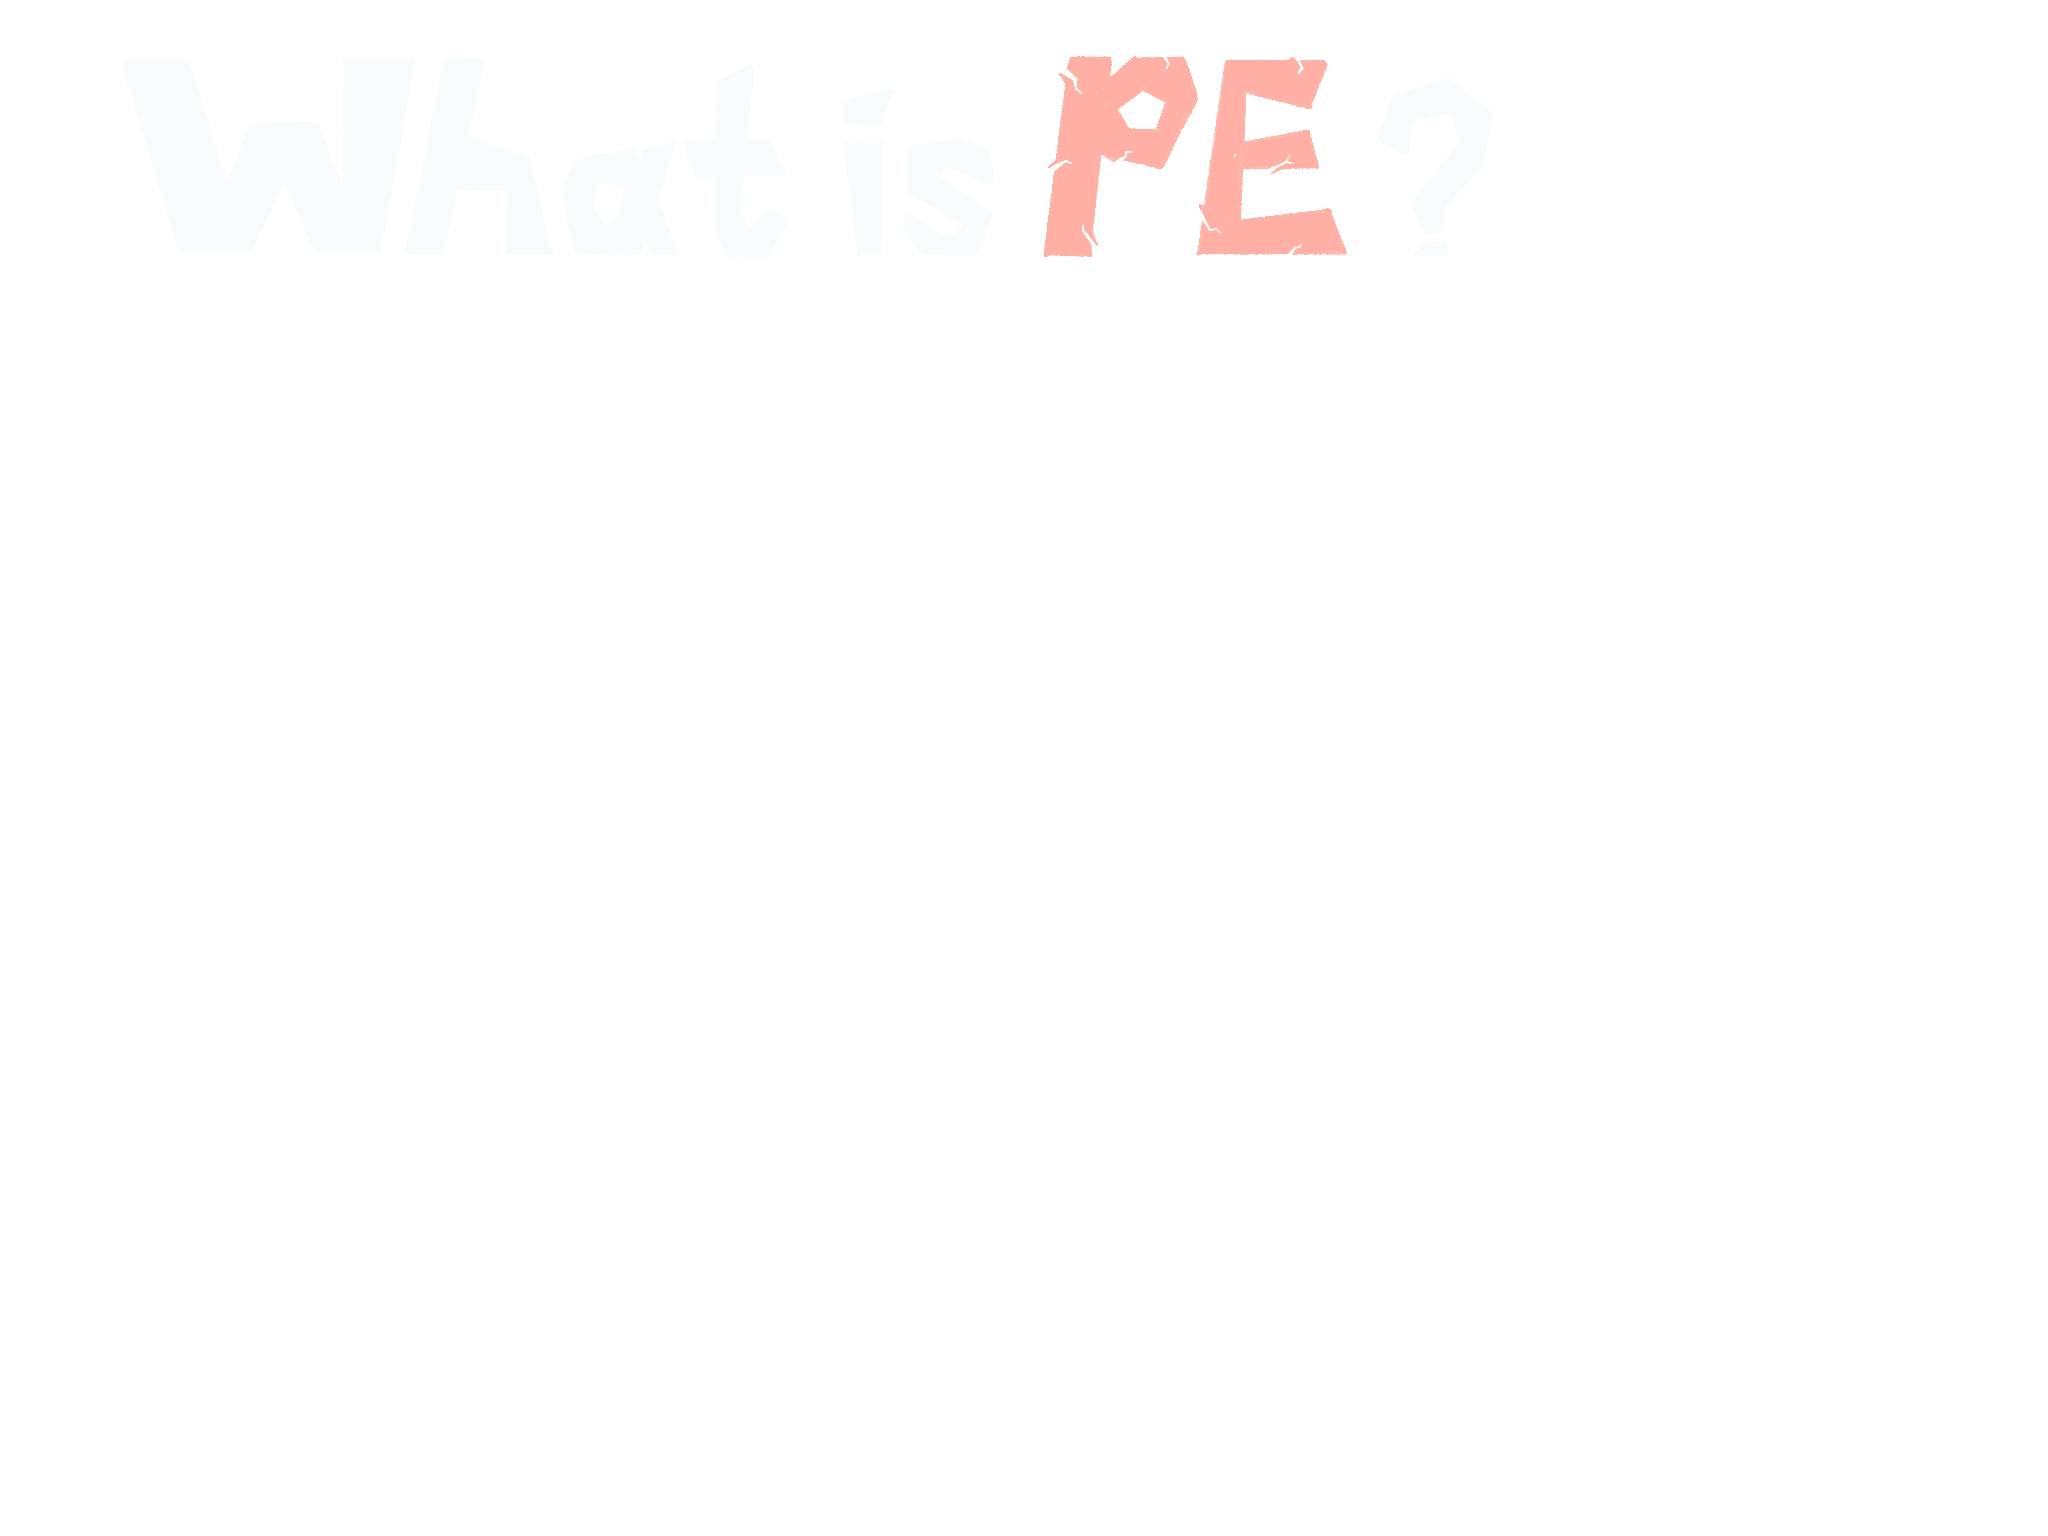
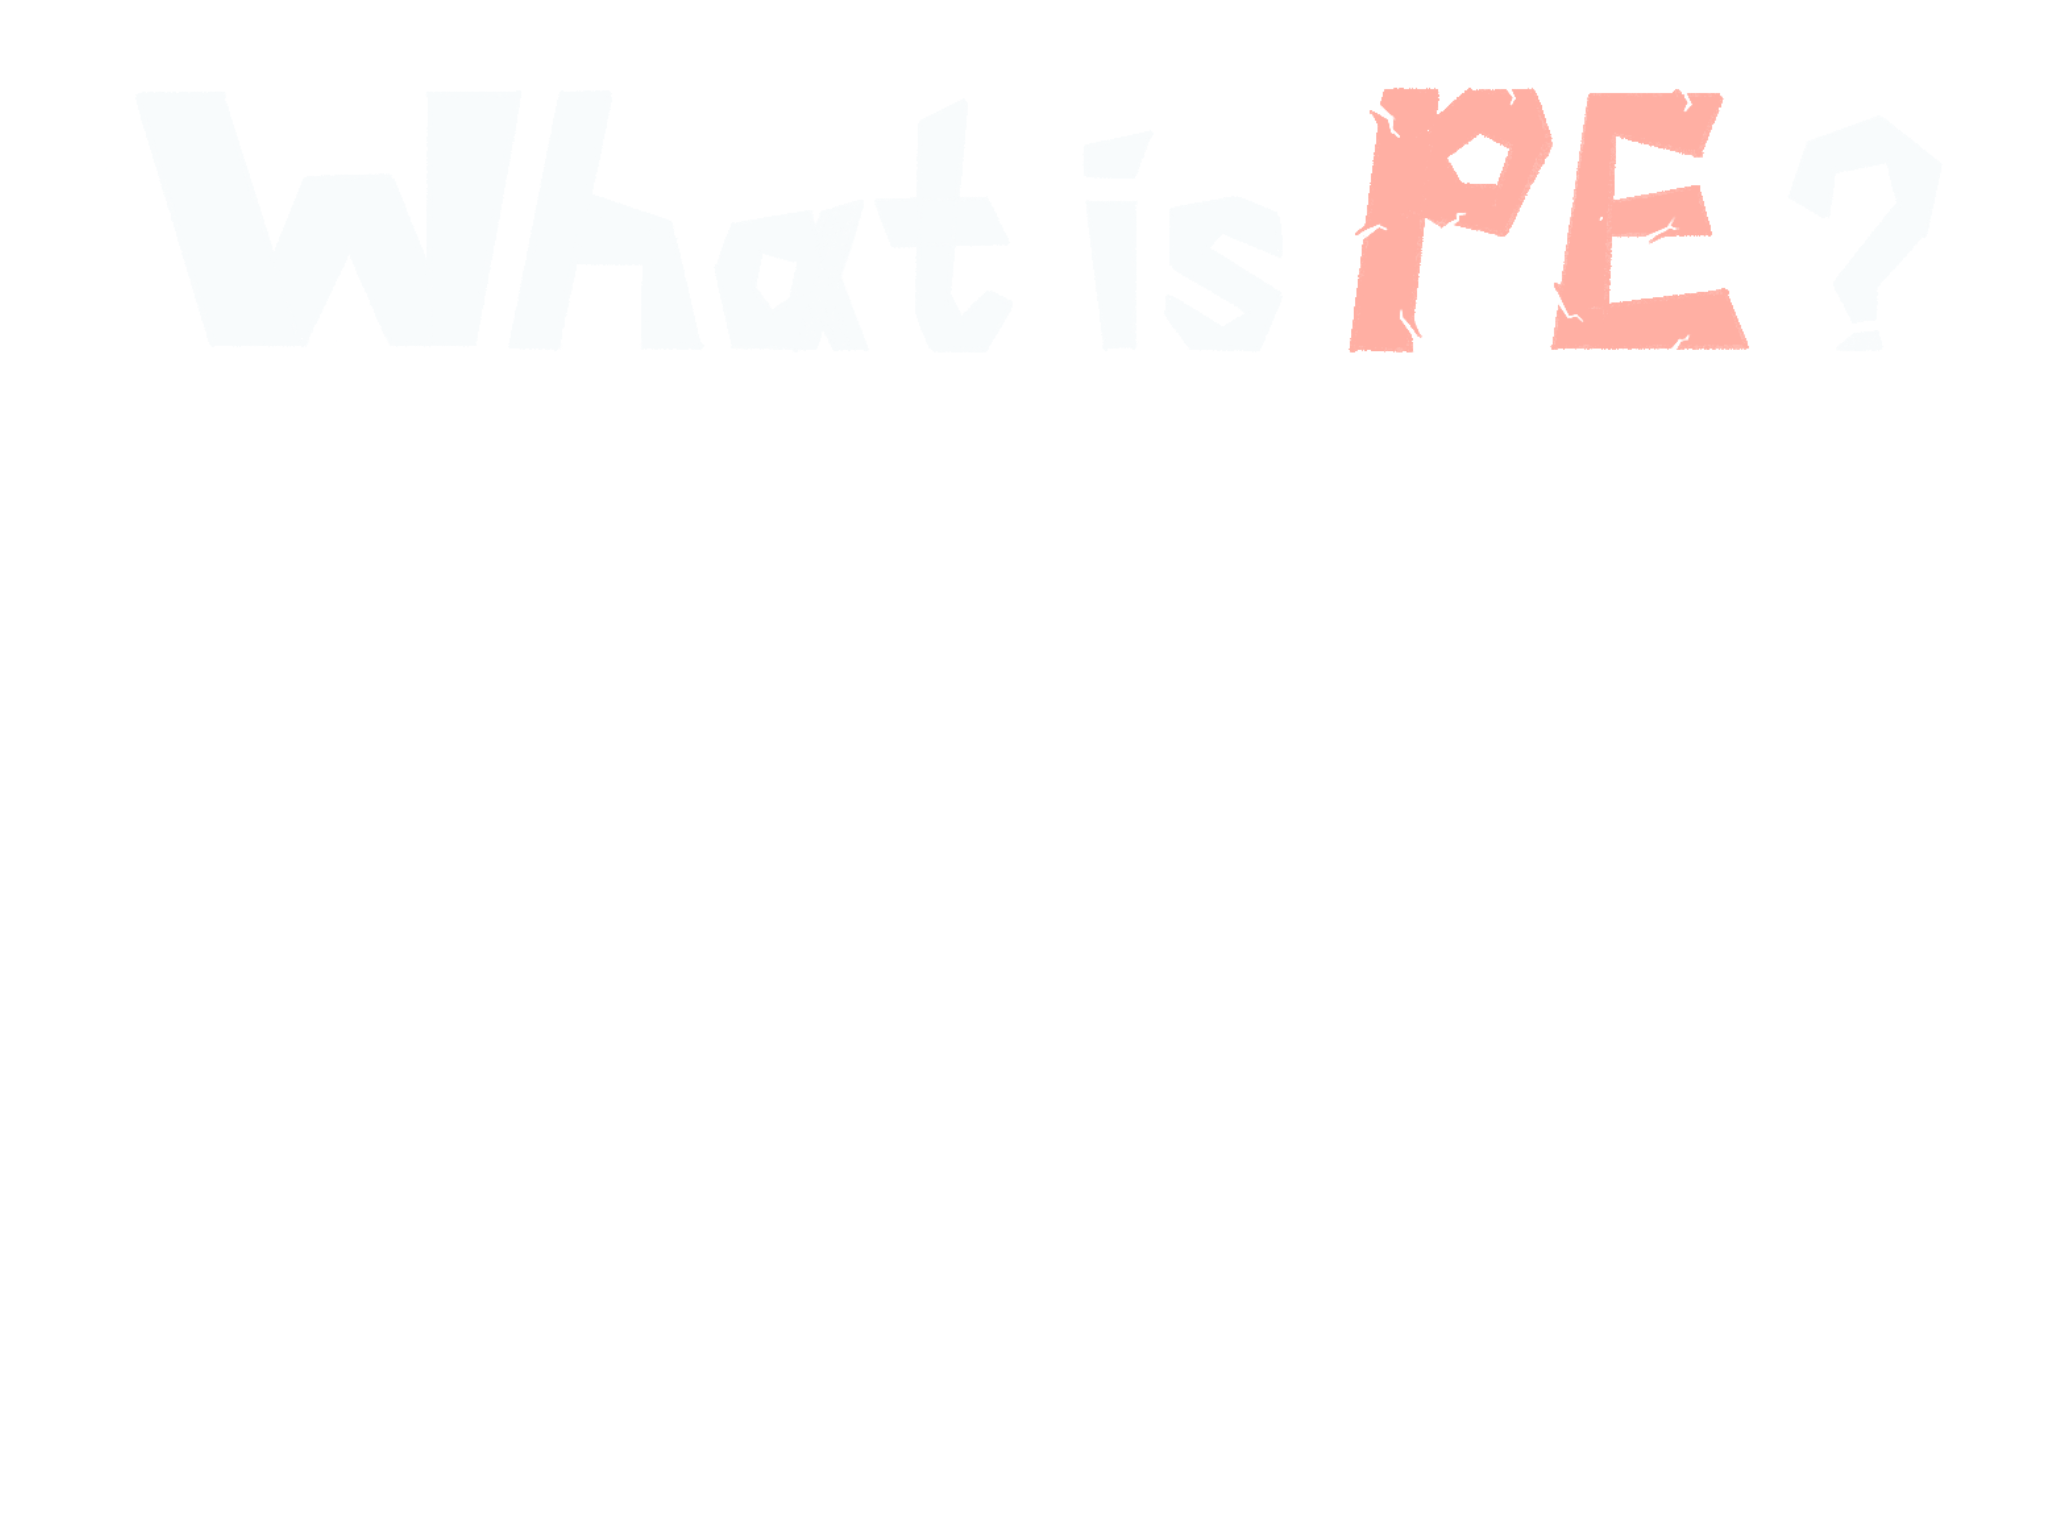
10/11

Changed region(s): [[0.5, 0.0312, 0.875, 0.25]]

diff --git a/src/views/HomeView.vue b/src/views/HomeView.vue
@@ -27,7 +27,7 @@
         <p class="simple-text wide-text">Polyethylene plastic (PE) can be seen everywhere in our lives, and is widely used in food plastic bags, agricultural greenhouses, pipes, wires, etc. Polyethylene polymer molecules are connected by very long C–C chains organized in a crystalline, dense structure. Therefore, polyethylene is too stable to degrade under normal circumstances.</p>
         <p class="simple-text wide-text">The crucial first step of PE biodegradation is the oxidation of PE polymer. This causes the formation of carbonyl groups. Then, long hydrocarbon chains are scissored with the production of smaller molecules,  which can then be metabolized by microorganisms.</p>
       </div>
-      <img src="@/assets/icon-1.png" class="icon-1"/>
+      <img src="https://static.igem.wiki/teams/4627/wiki/mei.png" class="icon-1"/>
       <div class="text-box-2">
         <strong
           >Worldwide Plastic Waste <strong class="red">200,000,000t</strong> per
@@ -38,7 +38,7 @@
       <div class="echarts-box">
         <v-chart class="chart" :option="option" />
       </div>
-      <img src="@/assets/muchAnimals.png" class="much-animals"/>
+      <img src="https://static.igem.wiki/teams/4627/wiki/pollution.png" class="much-animals"/>
       <p class="simple-text short-text text-1">High production, low recycling rates and recalcitrance have made PE plastic pollution a global environmental problem.</p>
     </div>
     <div class="main-box box-2">
@@ -46,7 +46,7 @@
         <img src="@/assets/PE_pollution.png" class="PE-pollution"/>
       </div>
       <div class="liucheng-box">
-        <img src="@/assets/liucheng.png" class="liucheng"/>
+        <img src="https://static.igem.wiki/teams/4627/wiki/bailiucheng.png" class="liucheng"/>
         <p class="desc-text text-3">Plastic recycling</p>
         <p class="desc-text text-4">Plastic classification</p>
         <p class="desc-text text-5">Physical degradation of PE</p>
@@ -67,32 +67,18 @@
       <p class="simple-text text-9 wide-text">
         When temperature rises, macromolecular chains inside PE are fully stretched, making it easier for O2 and PEase to entry and oxidize PE.                                                     However, at present, thermostability and catalytic efficiency of wild type PEase is low.
       </p>
-      <img src="@/assets/carbon-struct.png" class="carbon-struct"/>
-      <img src="@/assets/four-icons.png" class="four-icons"/>
+      <img src="https://static.igem.wiki/teams/4627/wiki/structure.png" class="carbon-struct"/>
+      <img src="https://static.igem.wiki/teams/4627/wiki/img-4887.png" class="four-icons"/>
     </div>
     <div class="main-box box-4">
-      <p>However, at present, thermostability and catalytic efficiency of wild type PEase is low.</p>
-      <p>Therefore, we hope to improve the thermostability of PEase by directed evolution to increase its possibility to work at higher temperstures. This project may lay the foundation for achieving joint action of various plastic degrading enzymes in the future.</p>
+      <p class="simple-text text-11">However, at present, thermostability and catalytic efficiency of wild type PEase is low.</p>
+      <p class="simple-text text-12">Therefore, we hope to improve the thermostability of PEase by directed evolution to increase its possibility to work at higher temperstures. This project may lay the foundation for achieving joint action of various plastic degrading enzymes in the future.</p>
       <div class="video-box">
-        <p>See our promtion video</p>
+        <p class="simple-text">See our promtion video</p>
         <video></video>
       </div>
-      <div class="more-info-box">
-        <div class="left-box">
-          <p>Contact us</p>
-          <div>
-            <img src=""/>
-            <p></p>
-          </div>
-          <div>
-            <img src=""/>
-            <p></p>
-          </div>
-          <div>
-            <img src=""/>
-            <img src=""/>
-          </div>
-        </div>
+      <div class="six-image-box">
+        <img v-for="item in six_image" :key="item" :src="item" class="six-image"/>
       </div>
     </div>
   </div>
@@ -116,7 +102,9 @@ use([
   TooltipComponent,
   LegendComponent
 ]);
-
+const six_image = [
+  
+]
 const option = {
   title: {
     text: 'plastic waste',
@@ -152,11 +140,16 @@ const option = {
 </script>
 
 <style scoped>
+.text-11, .text-12{
+  margin:5vh;
+}
 .PE-pollution{
   height:55vh;
 }
 .what-is-PE{
   height:50vh;
+  position:relative;
+  top:30vh;
 }
 .four-icons{
   position: absolute;
@@ -180,16 +173,20 @@ const option = {
   position: relative;
 }
 .box-1 {
-  background-image: url("../assets/background-1.png");
+  background-image: url("https://static.igem.wiki/teams/4627/wiki/bground1.png");
 }
 .box-2 {
-  background-image: url("../assets/background-2.png");
+  background-image: url("https://static.igem.wiki/teams/4627/wiki/bground2.png");
 }
 .box-3 {
-  background-image: url("../assets/background-3.png");
+  background-image: url("https://static.igem.wiki/teams/4627/wiki/middle.png");
+  height:100vh;
 }
 .box-4 {
-  background-image: url("../assets/background-4.png");
+  background-image: url("https://static.igem.wiki/teams/4627/wiki/bottom.png");
+  display:flex;
+  flex-direction: column;
+  align-items: center;
 }
 .wide-text {
   max-width: 45vw;

diff --git a/src/views/ContributionView.vue b/src/views/ContributionView.vue
@@ -1,3 +1,98 @@
 <template>
-    <div></div>
-</template>
+    <div class="main">
+        <img src="@/assets/other-background.png" class="other-background"/>
+      <SideBar heading="Overview" :child_heading="['Overview']"></SideBar>
+      <div class="main-content">
+        <TextWithImage
+        mainTitle="OVERVIEW"
+        :textContent="textContent1">
+        </TextWithImage>
+        <TextWithImage
+        mainTitle="PARTS"
+        :textContent="textContent2">
+        </TextWithImage>
+        <TextWithImage
+        mainTitle="DRY LAB"
+        :textContent="textContent3">
+        </TextWithImage>
+        <TextWithImage
+        subTitle="1. Hydrophobic interaction[1]:"
+        :textContent="textContent4">
+        </TextWithImage>
+        <TextWithImage
+        subTitle="2. Hydrogen bond:"
+        :textContent="textContent5">
+        </TextWithImage>
+        <TextWithImage
+        subTitle="3. Lonic bond (salt bridge)[2] :"
+        :textContent="textContent6">
+        </TextWithImage>
+        <TextWithImage
+        subTitle="4. π-π interaction:"
+        :textContent="textContent7">
+        </TextWithImage>
+        <TextWithImage
+        subTitle="5. Disulfide bond:"
+        :textContent="textContent8">
+        </TextWithImage>
+      </div>
+    </div>
+  </template>
+  
+  <script setup>
+  import TextWithImage from "@/components/text-with-image.vue"
+  import SideBar from "@/components/side-bar.vue"
+  const textContent1 = [
+    "As a continuous and inherited competition, each team will actively provide modeling skills, experimental specifications, parts, etc. that may be useful in the future. We hope to share the experience and achievements we have gained during the past year with all of the teams, so as to provide convenience for iGEMers in the future and make the iGEM community more colorful.Our contribution section will be divided into Parts, Dry lab, Wet lab and HP four parts as following."
+  ]
+  const textContent2 = [
+    "PEase is the only enzyme found that can degrade PE. We noted that the PE enzyme has not been studied in previous projects. Our basic parts is PEase's first appearance on the iGEM stage. For the first time, we have rationally designed PEase to improve its thermostability. We used molecular cloning to construct mutant plasmid and obtained 64 composite parts. Among them, the thermostability of many mutants was improved. There are 5 proteins with Tm changes above 4℃(higher than 12% compared with wild-type Ceres).",
+    "We hope that this work will trigger more thinking and design of iGEMRers for PE biodegradation in the future and facilitate their experiments."
+  ]
+  const textContent3 = [
+    "In the process of project design, we read a lot of literature. Combined with the existing foundation of the laboratory, we summarized several methods to improve enzyme thermostability, which could be helpful if other team or researchers want to optimize enzyme thermostability. "
+  ]
+  const textContent4 = [
+    "Hydrophobic interaction mainly affects the conformational entropy of protein. And it is the most important factor in the formation and stability of protein tertiary structure."
+  ]
+  const textContent5 = [
+    "Hydrogen bond is a kind of non-covalent bond, which formed when the distance between the hydrogen donor and the hydrogen acceptor does not exceed 3Å and the Angle between the hydrogen donor and the hydrogen acceptor is less than 90°."
+  ]
+  const textContent6 = [
+    "A salt bridge is inferred to form if a pair of opposite-charged residues (Asp or Glu versus Arg, Lys, or His) meet the following criteria: ",
+    "(i) the centroids of the side chain charged groups in the opposite-charged residues are 4.0Å apart from each other;",
+    "(ii) At least one pair of Asp or Glu side chain antelope oxygen atoms and Arg, Lys or His side chain nitrogen atoms within a 4.0Å distance."
+  ]
+  const textContent7 = [
+    "The interaction between aromatic rings refers to the interaction between two aromatic amino acids (Trp, Tyr, and Phe) benzene ring 234 when the distance between the center of aromatic rings does not exceed 7Å. Usually these aromatic amino acids are embedded or partially embedded in the hydrophobic core of the protein, which has an important effect on the thermostability of the protein."
+  ]
+  const textContent8 = [
+    "The protein structure can be stabilized by reducing the entropy of protein unfolding state. It canbe formed when the distance between C_β- C_β  atoms of two amino acids that is not more than 5Å apart (for glycine: from C_α).",
+    "In addition to the design directly from the above principles, there are the following methods: "
+  ]
+  </script>
+  
+  <style scoped>
+  .main{
+    width:100vw;
+    position: relative;
+  }
+  .main-content{
+    position: absolute;
+    width:85.2vw;
+    top:80vh;
+    left:14.8vw;
+    padding: 5vh;
+  }
+  .person-name{
+    color:blue;
+    cursor:pointer;
+  }
+  .other-background{
+    width:100vw;
+    height:80vh;
+    position:absolute;
+    left:0;
+    top:0;
+  }
+  </style>

diff --git a/src/App.vue b/src/App.vue
@@ -4,6 +4,24 @@
   </transition>
   <header-nav />
   <router-view />
+  <div class="bottom">
+    <div class="left-side">
+      <p>Contact Us</p>
+      <div class="line-box">
+        <img src="" class="small-icon"/>
+        <p class="simple-text"></p>
+      </div>
+      <div class="line-box">
+        <img src="" class="small-icon"/>
+        <p class="simple-text"></p>
+      </div>
+      <div class="line-box">
+        <img src="" class="small-icon"/>
+        <img src="" class="small-icon"/>
+      </div>
+    </div>
+    <div class="right-side"></div>
+  </div>
 </template>
 
 <script>

diff --git a/src/components/header-nav.vue b/src/components/header-nav.vue
@@ -1,6 +1,6 @@
 <template>
   <div class="head-nav">
-    <img src="@/assets/team-logo.png" class="team-logo" />
+    <img src="https://static.igem.wiki/teams/4627/wiki/navigation.png" class="team-logo" />
     <div class="navbar" ref="navbar" @mouseleave="hideMenu">
       <div
         class="router-box"
